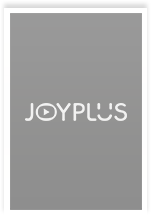
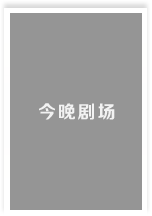
iphone code commit

Changed region(s): [[0.1579, 0.4722, 0.8421, 0.5833]]

diff --git a/theatre_iphone/yueshipin_ipad/AppDelegate.m b/theatre_iphone/yueshipin_ipad/AppDelegate.m
@@ -491,11 +491,11 @@
 
 - (NSString *)getContent
 {
-    return @"        任何用户在使用悦视频客户端服务之前，均应仔细阅读本声明（未成年人应当在其法定监护人陪同下阅读），用户可以选择不使用悦视频客户端服务，一旦使用，既被视为对本声明全部内容的认可和接受。\n\n\
-1. 任何通过悦视频显示或下载的资源和产品均系聚合引擎技术自动搜录第三方网站所有者制作或提供的内容，悦视频中的所有材料、信息和产品仅按“原样”提供，我公司对其合法性、准确性、真实性、适用性、安全性等概不负责，也无法负责；并且悦视频自动搜录的内容不代表我公司之任何意见和主张，也不代表我公司同意或支持第三方网站上的任何内容、主张或立场。\n\n\
+    return @"        任何用户在使用今晚剧场客户端服务之前，均应仔细阅读本声明（未成年人应当在其法定监护人陪同下阅读），用户可以选择不使用今晚剧场客户端服务，一旦使用，既被视为对本声明全部内容的认可和接受。\n\n\
+1. 任何通过今晚剧场显示或下载的资源和产品均系聚合引擎技术自动搜录第三方网站所有者制作或提供的内容，今晚剧场中的所有材料、信息和产品仅按“原样”提供，我公司对其合法性、准确性、真实性、适用性、安全性等概不负责，也无法负责；并且今晚剧场自动搜录的内容不代表我公司之任何意见和主张，也不代表我公司同意或支持第三方网站上的任何内容、主张或立场。\n\n\
 2. 任何第三方网站如果不希望被我公司的聚合引擎技术收录，应该及时向我公司反映。否则，我公司的聚合引擎技术将视其为可收录的资源网站。\n\n\
-3. 任何单位或者个人如认为悦视频客户端聚合引擎技术收录的第三方网站视频内容可能侵犯了其合法权益，请及时向我公司书面反馈，并提供身份证明、权属证明以及详情侵权情况证明。我公司在收到上述文件后，可依其合理判断，断开聚合引擎技术收录的涉嫌侵权的第三方网站内容。\n\n\
-4. 用户理解并且同意，用户通过悦视频所获得的材料、信息、产品以及服务完全处于用户自己的判断，并承担因使用该等内容而引起的所有风险，包括但不限于因对内容的正确性、完整性或实用性的依赖而产生的风险。用户在使用悦视频的过程中，因受视频或相关内容误导或欺骗而导致或可能导致的任何心理、生理上的伤害以及经济上的损失，一概与本公司无关。\n\n\
+3. 任何单位或者个人如认为今晚剧场客户端聚合引擎技术收录的第三方网站视频内容可能侵犯了其合法权益，请及时向我公司书面反馈，并提供身份证明、权属证明以及详情侵权情况证明。我公司在收到上述文件后，可依其合理判断，断开聚合引擎技术收录的涉嫌侵权的第三方网站内容。\n\n\
+4. 用户理解并且同意，用户通过今晚剧场所获得的材料、信息、产品以及服务完全处于用户自己的判断，并承担因使用该等内容而引起的所有风险，包括但不限于因对内容的正确性、完整性或实用性的依赖而产生的风险。用户在使用今晚剧场的过程中，因受视频或相关内容误导或欺骗而导致或可能导致的任何心理、生理上的伤害以及经济上的损失，一概与本公司无关。\n\n\
 5. 用户因第三方如电信部门的通讯线路故障、技术问题、网络、电脑故障、系统不稳定性及其他各种不可抗力量原因而遭受到的一切损失，我公司不承担责任。因技术故障等不可抗时间影响到服务的正常运行的，我公司承诺在第一时间内与相关单位配合，及时处理进行修复，但用户因此而遭受的一切损失，我公司不承担责任。";
 }
 

diff --git a/theatre_iphone/yueshipin_ipad/src/popular_iphone/RespForWXDetailViewController.m b/theatre_iphone/yueshipin_ipad/src/popular_iphone/RespForWXDetailViewController.m
@@ -46,7 +46,7 @@
     [super viewDidLoad];
 	// Do any additional setup after loading the view.
     
-    self.title = @"悅视频";
+    self.title = @"今晚剧场";
     
     UIImageView *backGround = [[UIImageView alloc] initWithImage:[UIImage imageNamed:@"background_common.png"]];
     backGround.frame = CGRectMake(0, 0, 320, kFullWindowHeight-64);
@@ -64,8 +64,8 @@
     self.navigationItem.hidesBackButton = YES;
     
     
-    UIImageView *frame = [[UIImageView alloc] initWithImage:[UIImage imageNamed:@"detailFrame.png"]];
-    frame.frame = CGRectMake(14, 14, 90, 133);
+    UIImageView *frame = [[UIImageView alloc] initWithImage:[UIImage imageNamed:@"video_placeholder.png"]];
+    frame.frame = CGRectMake(14, 14, 90, 131);
     [self.view addSubview:frame];
     
     _imgViewPoster = [[UIImageView alloc] initWithFrame:CGRectMake(16, 16, 85, 126)];

diff --git a/theatre_iphone/yueshipin_ipad/src/popular_iphone/IphoneShowDetailViewController.m b/theatre_iphone/yueshipin_ipad/src/popular_iphone/IphoneShowDetailViewController.m
@@ -277,11 +277,11 @@
         switch (indexPath.row) {
             case 0:{
                 
-                UIImageView *frame = [[UIImageView alloc] initWithImage:[UIImage imageNamed:@"tab2_detailed_picture_bg"]];
+                UIImageView *frame = [[UIImageView alloc] initWithImage:[UIImage imageNamed:@"video_placeholder.png"]];
                 frame.frame = CGRectMake(14, 14, 90, 143);
                 [cell addSubview:frame];
                 
-                UIImageView *imageView = [[UIImageView alloc] initWithFrame:CGRectMake(16, 16, 85, 136)];
+                UIImageView *imageView = [[UIImageView alloc] initWithFrame:CGRectMake(16, 16, 85, 138)];
                 
                 NSString *url = [videoInfo_ objectForKey:@"ipad_poster"];
                 if(url == nil){

diff --git a/theatre_iphone/yueshipin_ipad/src/personal_iphone/MineViewController.m b/theatre_iphone/yueshipin_ipad/src/personal_iphone/MineViewController.m
@@ -709,9 +709,9 @@
         }
         NSDictionary *infoDic = [favArr_ objectAtIndex:indexPath.row];
         
-        UIImageView *frame = [[UIImageView alloc] initWithImage:[UIImage imageNamed:@"listFrame.png"]];
-        frame.frame = CGRectMake(10, 7, 43, 64);
-        [cell.contentView addSubview:frame];
+//        UIImageView *frame = [[UIImageView alloc] initWithImage:[UIImage imageNamed:@"listFrame.png"]];
+//        frame.frame = CGRectMake(10, 7, 43, 64);
+//        [cell.contentView addSubview:frame];
         
         UIImageView *imageView = [[UIImageView alloc] initWithFrame:CGRectMake(11, 8, 40, 60)];
         [imageView setImageWithURL:[NSURL URLWithString:[infoDic objectForKey:@"content_pic_url"]] placeholderImage:[UIImage imageNamed:@"video_placeholder"]];

diff --git a/theatre_iphone/yueshipin_ipad/src/popular_iphone/AllListViewCell.m b/theatre_iphone/yueshipin_ipad/src/popular_iphone/AllListViewCell.m
@@ -26,10 +26,10 @@
         
         self.frame = CGRectMake(0, 0, 320, 130);
         self.backgroundColor = [UIColor clearColor];
-        UIImageView *iconBgView = [[UIImageView alloc] initWithImage:[UIImage imageNamed:@"tab_list_moviecard.png"]];
+        UIImageView *iconBgView = [[UIImageView alloc] initWithImage:[UIImage imageNamed:@"video_placeholder.png"]];
         iconBgView.frame = CGRectMake(2, 12, 82, 111);
         [self addSubview:iconBgView];
-        self.imageView = [[UIImageView alloc] initWithFrame:CGRectMake(7.5, 15, 68, 100)];
+        self.imageView = [[UIImageView alloc] initWithFrame:CGRectMake(7, 18, 72, 102)];
         [self addSubview:self.imageView];
         
         self.label = [[UILabel alloc] initWithFrame:CGRectMake(105, 24, 169, 15)];

diff --git a/theatre_iphone/yueshipin_ipad/src/popular_iphone/SortedViewCell.m b/theatre_iphone/yueshipin_ipad/src/popular_iphone/SortedViewCell.m
@@ -21,11 +21,11 @@
         // Initialization code
         self.backgroundColor = [UIColor clearColor];
         
-        UIImageView *iconBgView = [[UIImageView alloc] initWithImage:[UIImage imageNamed:@"tab_list_moviecard.png"]];
+        UIImageView *iconBgView = [[UIImageView alloc] initWithImage:[UIImage imageNamed:@"video_placeholder.png"]];
         iconBgView.frame = CGRectMake(2, 12, 82, 111);
         [self addSubview:iconBgView];
         
-        self.imageview = [[UIImageView alloc] initWithFrame:CGRectMake(7.5, 15, 68, 100)];
+        self.imageview = [[UIImageView alloc] initWithFrame:CGRectMake(7, 18, 72, 102)];
         [self addSubview:self.imageview];
         
         self.title = [[UILabel alloc] initWithFrame:CGRectMake(106, 18, 160, 14)];

diff --git a/yueshipin_ipad/yueshipin_ipad/src/popular_iphone/AllListViewCell.m b/yueshipin_ipad/yueshipin_ipad/src/popular_iphone/AllListViewCell.m
@@ -26,7 +26,7 @@
         
         self.frame = CGRectMake(0, 0, 320, 130);
         self.backgroundColor = [UIColor clearColor];
-        UIImageView *iconBgView = [[UIImageView alloc] initWithImage:[UIImage imageNamed:@"tab_list_moviecard.png"]];
+        UIImageView *iconBgView = [[UIImageView alloc] initWithImage:[UIImage imageNamed:@"video_placeholder.png"]];
         iconBgView.frame = CGRectMake(2, 12, 82, 111);
         [self addSubview:iconBgView];
         self.imageView = [[UIImageView alloc] initWithFrame:CGRectMake(7.5, 15, 68, 100)];
